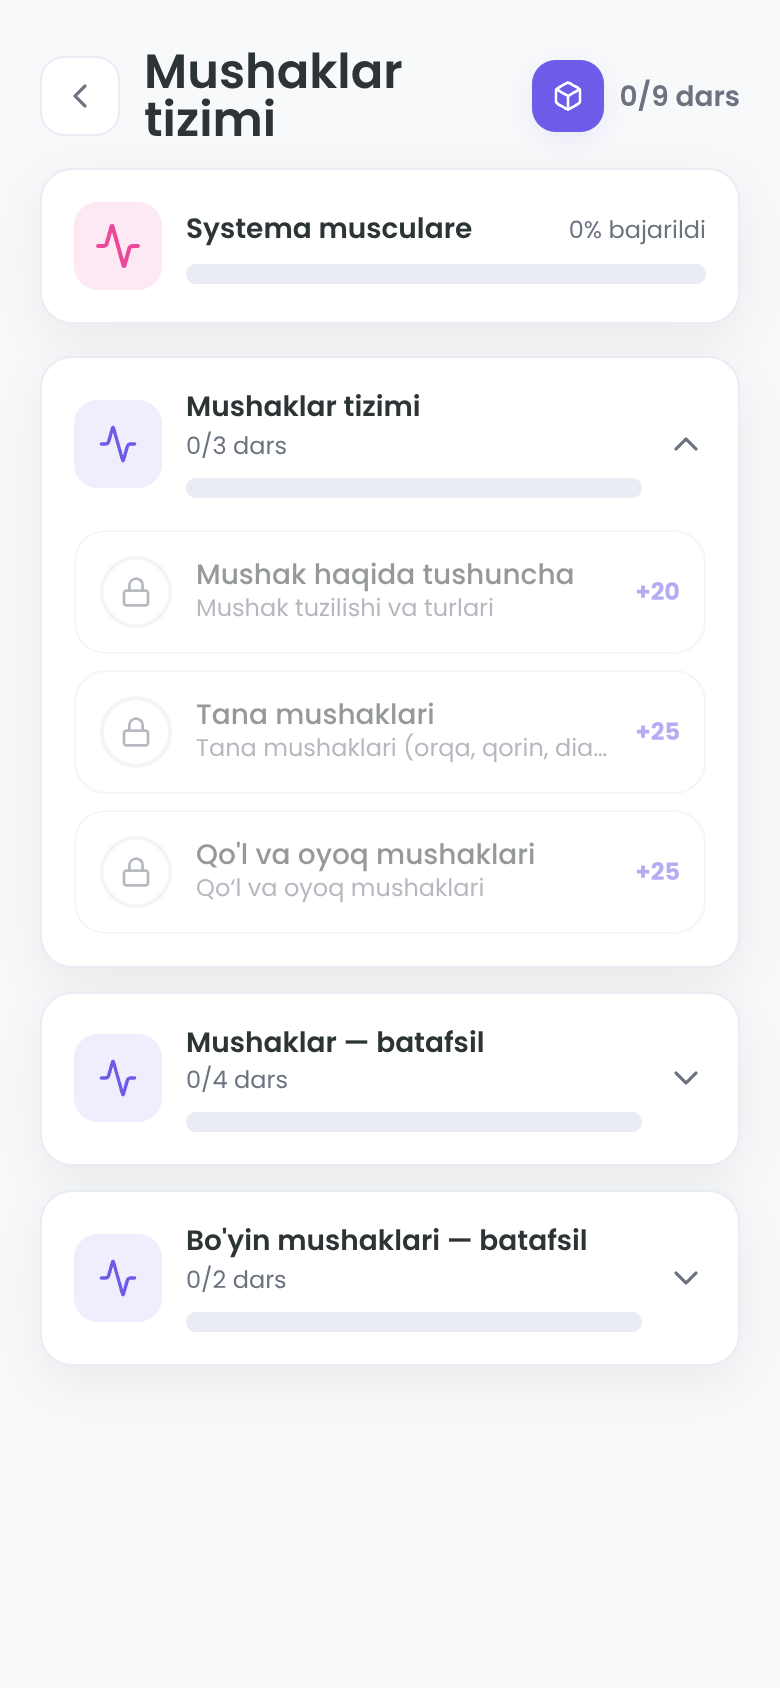
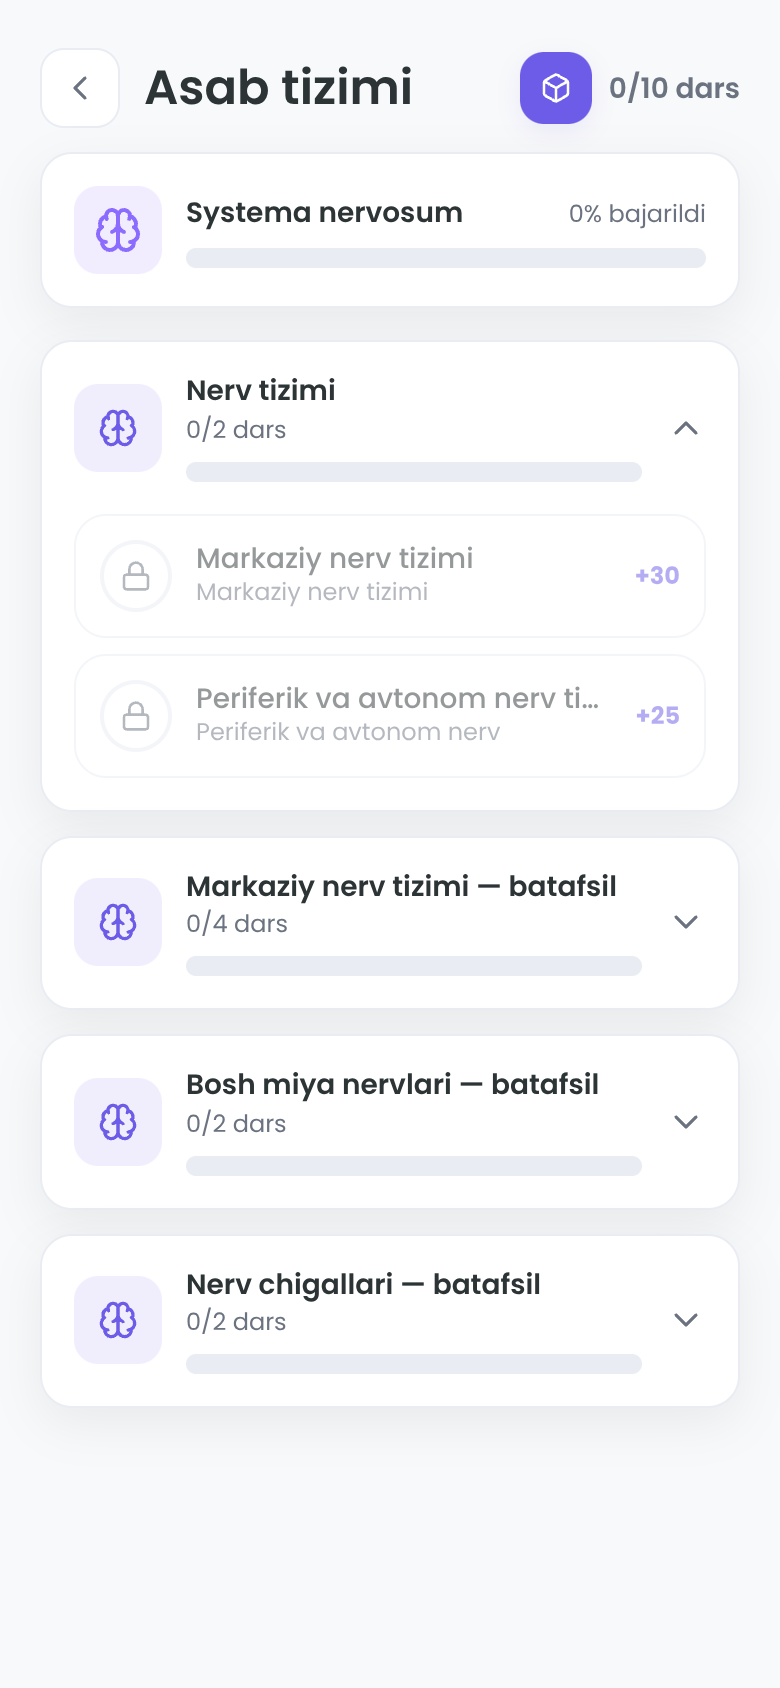
Nerv chigallari va teri/hid/ta'm batafsil to'ldirildi
- src/data/final.ts: PLEXUS_DETAIL + SKIN_DETAIL (4 dars, 44 savol)
- Chigallar: bo'yin (C1-C4), yelka (C5-Th1, radialis/medianus/ulnaris), bel-dumg'aza (femoralis/ischiadicus)
- Teri: epidermis/derma/gipoderma, soch/tirnoq/bezlar
- Hid/ta'm: n. olfactorius (15-20 tola), lamina cribrosa, til so'rg'ichlari
- Jami: 76 -> 80 dars, 901 -> 945 savol

diff --git a/corpus/src/data/final.ts b/corpus/src/data/final.ts
@@ -1,0 +1,121 @@
+/**
+ * Yakuniy batafsil bo'limlar — nerv chigallari + teri/hid/ta'm.
+ * Manba: A. Ahmedov "Anatomiya II jild" (2018), 302–330 va 406–409.
+ */
+import type { Question, SystemUnit } from "./types";
+
+const q = (x: Question): Question => x;
+
+/* ============================================================
+   PERIFERIK NERV CHIGALLARI — batafsil
+   ============================================================ */
+export const PLEXUS_DETAIL: SystemUnit[] = [
+  {
+    id: "px-1",
+    title: "Nerv chigallari — batafsil",
+    icon: "brain",
+    color: "#8B6CFF",
+    intro: "Orqa miya nervlarining oldingi tarmoqlari o'zaro qo'shilib chigallar (plexus) hosil qiladi: bo'yin (plexus cervicalis), yelka (plexus brachialis), bel (plexus lumbalis) va dumg'aza (plexus sacralis). Yelka chigali qo'lni, bel-dumg'aza chigali esa oyoqni innervatsiya qiladi.",
+    lessons: [
+      {
+        id: "l80",
+        title: "Bo'yin va yelka chigallari",
+        description: "Bo'yin chigali (C1–C4), yelka chigali (C5–Th1) va qo'l nervlari",
+        xp: 35,
+        minutes: 10,
+        source: { book: "Anatomiya II jild", page: "306–316" },
+        questions: [
+          q({ type: "quiz", prompt: "Bo'yin chigali qaysi umurtqalar nervlaridan hosil bo'ladi?", options: ["C1–C4", "C5–Th1", "L1–L4", "S1–S4"], answer: 0, difficulty: "medium" }),
+          q({ type: "quiz", prompt: "Bo'yin chigali lotinchada qanday ataladi?", options: ["Plexus cervicalis", "Plexus brachialis", "Plexus lumbalis", "Plexus sacralis"], answer: 0, difficulty: "easy" }),
+          q({ type: "quiz", prompt: "Diafragmani innervatsiya qiluvchi nerv qaysi?", options: ["N. phrenicus", "N. vagus", "N. radialis", "N. medianus"], answer: 0, difficulty: "hard", explanation: "N. phrenicus — bo'yin chigalidan (C3–C5) chiqib, diafragmani innervatsiya qiladi." }),
+          q({ type: "quiz", prompt: "Yelka chigali qaysi nervlardan hosil bo'ladi?", options: ["C5–Th1", "C1–C4", "L1–L4", "S1–S4"], answer: 0, difficulty: "medium" }),
+          q({ type: "quiz", prompt: "Yelka chigali lotinchada qanday ataladi?", options: ["Plexus brachialis", "Plexus cervicalis", "Plexus lumbalis", "Plexus sacralis"], answer: 0, difficulty: "easy", hint: "Brachium — yelka" }),
+          q({ type: "quiz", prompt: "Bilakni yozuvchi va barmoqlarni ochuvchi nerv qaysi?", options: ["N. radialis", "N. medianus", "N. ulnaris", "N. musculocutaneus"], answer: 0, difficulty: "hard", explanation: "N. radialis — orqa guruh (yozuvchilar)." }),
+          q({ type: "quiz", prompt: "Kaftning ko'p qismini innervatsiya qiluvchi nerv qaysi?", options: ["N. medianus", "N. radialis", "N. ulnaris", "N. axillaris"], answer: 0, difficulty: "hard", explanation: "N. medianus — kaftning ko'p qismini va 1–3 barmoqlarni." }),
+          q({ type: "quiz", prompt: "Jimjiloqni innervatsiya qiluvchi nerv qaysi?", options: ["N. ulnaris", "N. medianus", "N. radialis", "N. musculocutaneus"], answer: 0, difficulty: "hard", explanation: "N. ulnaris — jimjiloq va kaftning medial qismi." }),
+          q({ type: "quiz", prompt: "N. radialis qayerda shikastlansa qo'l panjasi osilib qoladi?", options: ["Yelka suyagi sohasida", "Bo'yinda", "Bilakda", "Son sohasida"], answer: 0, difficulty: "hard", explanation: "N. radialis yelka suyagi sulcus nervi radialis'da shikastlansa «osilib qolgan panja» bo'ladi." }),
+          q({ type: "match", prompt: "Yelka chigali nervlarini moslang", pairs: [["N. radialis", "Yozuvchi nerv"], ["N. medianus", "Kaft o'rta qismi"], ["N. ulnaris", "Jimjiloq"], ["N. musculocutaneus", "Yelka old guruhi"]] }),
+          q({ type: "tf", prompt: "Diafragma n. phrenicus (C3–C5) bilan innervatsiya qilinadi.", statement: true, difficulty: "hard" }),
+        ],
+      },
+      {
+        id: "l81",
+        title: "Bel va dumg'aza chigallari",
+        description: "Bel chigali (L1–L4), dumg'aza chigali (L4–S4), quymich nervi",
+        xp: 35,
+        minutes: 10,
+        source: { book: "Anatomiya II jild", page: "319–330" },
+        questions: [
+          q({ type: "quiz", prompt: "Bel chigali qaysi nervlardan hosil bo'ladi?", options: ["L1–L4", "C5–Th1", "C1–C4", "S1–S4"], answer: 0, difficulty: "medium" }),
+          q({ type: "quiz", prompt: "Bel chigali lotinchada qanday ataladi?", options: ["Plexus lumbalis", "Plexus brachialis", "Plexus cervicalis", "Plexus sacralis"], answer: 0, difficulty: "easy" }),
+          q({ type: "quiz", prompt: "Dumg'aza chigali lotinchada qanday ataladi?", options: ["Plexus sacralis", "Plexus lumbalis", "Plexus brachialis", "Plexus cervicalis"], answer: 0, difficulty: "easy" }),
+          q({ type: "quiz", prompt: "Sonning oldingi guruhini innervatsiya qiluvchi nerv qaysi?", options: ["N. femoralis", "N. ischiadicus", "N. obturatorius", "N. tibialis"], answer: 0, difficulty: "hard", explanation: "N. femoralis — to'rt boshli son mushagini innervatsiya qiladi." }),
+          q({ type: "quiz", prompt: "Tanadagi eng katta nerv qaysi?", options: ["N. ischiadicus (quymich nervi)", "N. femoralis", "N. medianus", "N. radialis"], answer: 0, difficulty: "medium", hint: "Ischiadicus — quymich" }),
+          q({ type: "quiz", prompt: "Quymich nervi qaysi sohani innervatsiya qiladi?", options: ["Son orqa va boldirni", "Son oldini", "Qo'lni", "Yuzni"], answer: 0, difficulty: "medium" }),
+          q({ type: "quiz", prompt: "Quymich nervi qaysi nervlarga bo'linadi?", options: ["N. tibialis va n. fibularis", "N. radialis va n. ulnaris", "N. femoralis va n. obturatorius", "N. medianus va n. axillaris"], answer: 0, difficulty: "hard", explanation: "N. ischiadicus → n. tibialis (orqa) va n. fibularis communis (lateral)." }),
+          q({ type: "quiz", prompt: "Boldir orqa guruhini innervatsiya qiluvchi nerv qaysi?", options: ["N. tibialis", "N. fibularis", "N. femoralis", "N. obturatorius"], answer: 0, difficulty: "hard" }),
+          q({ type: "quiz", prompt: "Quymich nervi og'rig'i (siatica) qayerda seziladi?", options: ["Son orqa va oyoq bo'ylab", "Qo'lda", "Bo'yinda", "Yuzda"], answer: 0, difficulty: "medium", explanation: "Siatica — n. ischiadicus bo'ylab og'riq, dumg'azadan oyoqqa tarqaladi." }),
+          q({ type: "match", prompt: "Bel-dumg'aza chigali nervlarini moslang", pairs: [["N. femoralis", "Son old guruhi"], ["N. ischiadicus", "Quymich nervi"], ["N. tibialis", "Boldir orqa"], ["N. fibularis", "Boldir lateral"]] }),
+          q({ type: "tf", prompt: "Quymich nervi (n. ischiadicus) tanadagi eng katta nervdir.", statement: true, difficulty: "medium" }),
+        ],
+      },
+    ],
+  },
+];
+
+/* ============================================================
+   TERI, HID va TA'M — batafsil
+   ============================================================ */
+export const SKIN_DETAIL: SystemUnit[] = [
+  {
+    id: "sk-1",
+    title: "Teri, hid va ta'm — batafsil",
+    icon: "sparkles",
+    color: "#20D9C5",
+    intro: "Teri (cutis) organizmning eng katta a'zosi — epidermis (ustki) va derma (chin teri) qavatlaridan iborat. Hid biluv nervi (n. olfactorius) 15–20 ta hid tolalaridan, ta'm sezish esa til so'rg'ichlaridagi retseptorlardan tashkil topgan.",
+    lessons: [
+      {
+        id: "l82",
+        title: "Teri qavatlari va hosilalari",
+        description: "Epidermis, derma, soch, tirnoq, ter va yog' bezlari",
+        xp: 30,
+        minutes: 9,
+        source: { book: "Anatomiya II jild", page: "406–408" },
+        questions: [
+          q({ type: "quiz", prompt: "Teri lotinchada qanday ataladi?", options: ["Cutis", "Derma", "Epidermis", "Pilis"], answer: 0, difficulty: "easy" }),
+          q({ type: "quiz", prompt: "Terining ustki qavati qanday ataladi?", options: ["Epidermis", "Derma", "Gipoderma", "Fascia"], answer: 0, difficulty: "medium", hint: "Epi — ustki" }),
+          q({ type: "quiz", prompt: "Terining chuqur qavati (chin teri) qanday ataladi?", options: ["Derma", "Epidermis", "Gipoderma", "Cuticula"], answer: 0, difficulty: "medium" }),
+          q({ type: "quiz", prompt: "Teri ostidagi yog' qavati qanday ataladi?", options: ["Gipoderma", "Epidermis", "Derma", "Fascia"], answer: 0, difficulty: "hard", hint: "Hypo — ostida" }),
+          q({ type: "quiz", prompt: "Soch lotinchada qanday ataladi?", options: ["Pilus", "Unguis", "Glandula", "Cutis"], answer: 0, difficulty: "medium", hint: "Pilus — soch" }),
+          q({ type: "quiz", prompt: "Tirnoq lotinchada qanday ataladi?", options: ["Unguis", "Pilus", "Cutis", "Glandula"], answer: 0, difficulty: "medium", hint: "Unguis — tirnoq" }),
+          q({ type: "quiz", prompt: "Ter bezlari lotinchada qanday ataladi?", options: ["Glandulae sudoriferae", "Glandulae sebaceae", "Glandulae salivariae", "Glandulae endocrinae"], answer: 0, difficulty: "hard", hint: "Sudor — ter" }),
+          q({ type: "quiz", prompt: "Yog' (moy) bezlari lotinchada qanday ataladi?", options: ["Glandulae sebaceae", "Glandulae sudoriferae", "Glandulae salivariae", "Glandulae endocrinae"], answer: 0, difficulty: "hard", hint: "Sebum — yog'" }),
+          q({ type: "quiz", prompt: "Terining asosiy vazifalari qaysilar?", options: ["Himoya, issiqlik boshqaruvi, sezish", "Faqat himoya", "Faqat sezish", "Ovqat hazm qilish"], answer: 0, difficulty: "easy" }),
+          q({ type: "match", prompt: "Teri qavatlari va hosilalarini moslang", pairs: [["Epidermis", "Ustki qavat"], ["Derma", "Chin teri"], ["Pilus", "Soch"], ["Unguis", "Tirnoq"]] }),
+          q({ type: "tf", prompt: "Teri organizmdagi eng katta a'zo hisoblanadi.", statement: true, difficulty: "easy" }),
+        ],
+      },
+      {
+        id: "l83",
+        title: "Hid va ta'm sezish",
+        description: "Hid biluv nervi, hid retseptorlari, til so'rg'ichlari",
+        xp: 30,
+        minutes: 9,
+        source: { book: "Anatomiya II jild", page: "407–409" },
+        questions: [
+          q({ type: "quiz", prompt: "Hid biluv nervi qanday ataladi?", options: ["N. olfactorius", "N. opticus", "N. trigeminus", "N. facialis"], answer: 0, difficulty: "medium", hint: "Olfactorius — hid biluv" }),
+          q({ type: "quiz", prompt: "Hid biluv nervi nechta hid tolalaridan tashkil topgan?", options: ["15–20", "2–3", "5", "30–40"], answer: 0, difficulty: "hard", explanation: "15–20 ta hid biluv tolalari (fila olfactoria) g'alvirsimon plastinka orqali o'tadi." }),
+          q({ type: "quiz", prompt: "Hid retseptorlari qayerda joylashgan?", options: ["Burun bo'shlig'ining hid sohasida", "Tilda", "Quloqda", "Ko'zda"], answer: 0, difficulty: "medium" }),
+          q({ type: "quiz", prompt: "Hid tolalari qaysi suyak orqali o'tadi?", options: ["G'alvirsimon suyak (ethmoidale)", "Ponasimon suyak", "Chakka suyagi", "Ensa suyagi"], answer: 0, difficulty: "hard", explanation: "Hid tolalari lamina cribrosa (g'alvirsimon plastinka) orqali o'tadi." }),
+          q({ type: "quiz", prompt: "Ta'm retseptorlari qayerda joylashgan?", options: ["Til so'rg'ichlarida", "Burunda", "Quloqda", "Tanglayda"], answer: 0, difficulty: "medium" }),
+          q({ type: "quiz", prompt: "Ta'm sezish nervi qaysi?", options: ["N. facialis va n. glossopharyngeus", "N. opticus", "N. olfactorius", "N. vagus"], answer: 0, difficulty: "hard", explanation: "Ta'm — oldingi 2/3 til (n. facialis), orqa 1/3 (n. glossopharyngeus)." }),
+          q({ type: "quiz", prompt: "Tilning qaysi qismida achchiq ta'm ko'proq seziladi?", options: ["Ildiz (orqa) qismida", "Uchida", "Yon qismida", "O'rtasida"], answer: 0, difficulty: "medium", explanation: "Achchiq — til ildizida, shirin — uchida, nordon — yonlarida." }),
+          q({ type: "quiz", prompt: "Shirin ta'm asosan tilning qaysi qismida seziladi?", options: ["Uchida", "Ildizida", "Yonlarida", "O'rtasida"], answer: 0, difficulty: "hard" }),
+          q({ type: "quiz", prompt: "Til so'rg'ichlari nechta turga bo'linadi?", options: ["4", "2", "3", "5"], answer: 0, difficulty: "hard", explanation: "Ip simon, qo'ziqorinsimon, bargsimon va ariqchali so'rg'ichlar." }),
+          q({ type: "match", prompt: "Sezgi tuzilmalarini moslang", pairs: [["N. olfactorius", "Hid biluv"], ["Lamina cribrosa", "G'alvirsimon plastinka"], ["Papillae", "Til so'rg'ichlari"], ["Gustatio", "Ta'm sezish"]] }),
+          q({ type: "tf", prompt: "Hid tolalari g'alvirsimon suyakning lamina cribrosa'si orqali o'tadi.", statement: true, difficulty: "hard" }),
+        ],
+      },
+    ],
+  },
+];

diff --git a/corpus/src/data/content.ts b/corpus/src/data/content.ts
@@ -12,6 +12,7 @@ import { NEUROLOGY_DETAIL, SENSORY_DETAIL } from "./neuro";
 import { DIGESTIVE_DETAIL, RESPIRATORY_DETAIL, URINARY_DETAIL } from "./splanchno";
 import { REPRODUCTIVE_DETAIL, ENDOCRINE_DETAIL } from "./glands";
 import { NECK_HEAD_MUSCLES, VESSELS_DETAIL } from "./neckvessels";
+import { PLEXUS_DETAIL, SKIN_DETAIL } from "./final";
 
 export type { ContentSystem, Lesson, SystemUnit, Question };
 export type { QuestionType, Difficulty } from "./types";
@@ -76,7 +77,7 @@ const BASE_SYSTEMS: ContentSystem[] = [
   },
   {
     id: "nervous", name: "Asab tizimi", latin: "Systema nervosum", en: "Nervous System",
-    icon: "brain", color: "#8B6CFF", image: "/img/atlas/miya.jpg", units: [...(EXTRA_UNITS.nervous ?? []), ...NEUROLOGY_DETAIL],
+    icon: "brain", color: "#8B6CFF", image: "/img/atlas/miya.jpg", units: [...(EXTRA_UNITS.nervous ?? []), ...NEUROLOGY_DETAIL, ...PLEXUS_DETAIL],
   },
   {
     id: "urinary", name: "Siydik tizimi", latin: "Systema urinarium", en: "Urinary System",
@@ -92,7 +93,7 @@ const BASE_SYSTEMS: ContentSystem[] = [
   },
   {
     id: "sensory", name: "Sezgi a'zolari", latin: "Organa sensuum", en: "Sensory Organs",
-    icon: "sparkles", color: "#20D9C5", image: "/img/atlas/neurocranium.jpg", units: [...(EXTRA_UNITS.sensory ?? []), ...SENSORY_DETAIL],
+    icon: "sparkles", color: "#20D9C5", image: "/img/atlas/neurocranium.jpg", units: [...(EXTRA_UNITS.sensory ?? []), ...SENSORY_DETAIL, ...SKIN_DETAIL],
   },
 ];
 

diff --git a/corpus/README.md b/corpus/README.md
@@ -7,7 +7,7 @@ medical-education feel inspired by Complete Anatomy. **O'zbekcha asosiy til**, i
 
 Kontent **A. Ahmedov va boshq. "Anatomiya I/II jild" (2018) darsligi + "Odam anatomiyasi Atlas"** dan olinadi — ixtiro qilinmagan.
 
-**Jami: 11 tizim · 32 bo'lim · 76 dars · 901 savol** (butun kitob).
+**Jami: 11 tizim · 34 bo'lim · 80 dars · 945 savol** (butun kitob).
 
 | Tizim | Bo'limlar | Darslar |
 |---|---|---|
@@ -20,8 +20,8 @@ Kontent **A. Ahmedov va boshq. "Anatomiya I/II jild" (2018) darsligi + "Odam ana
 | 👥 Jinsiy tizim | 2 | 3 |
 | ⚡ Endokrin bezlar | 2 | 3 |
 | ❤ Yurak-qon tomir | 3 | 7 |
-| 🧠 Asab tizimi | 3 | 8 |
-| ✨ Sezgi a'zolari | 2 | 4 |
+| 🧠 Asab tizimi | 4 | 10 |
+| ✨ Sezgi a'zolari | 3 | 6 |
 
 **8 xil savol turi**: test (quiz) · rasmni aniqlash (img) · moslashtirish (match) · atama yig'ish (build) · to'g'ri/noto'g'ri (tf) · tartiblash (order) · bo'sh joyni to'ldirish (fill) · tuzilma→vazifa (func)
 
